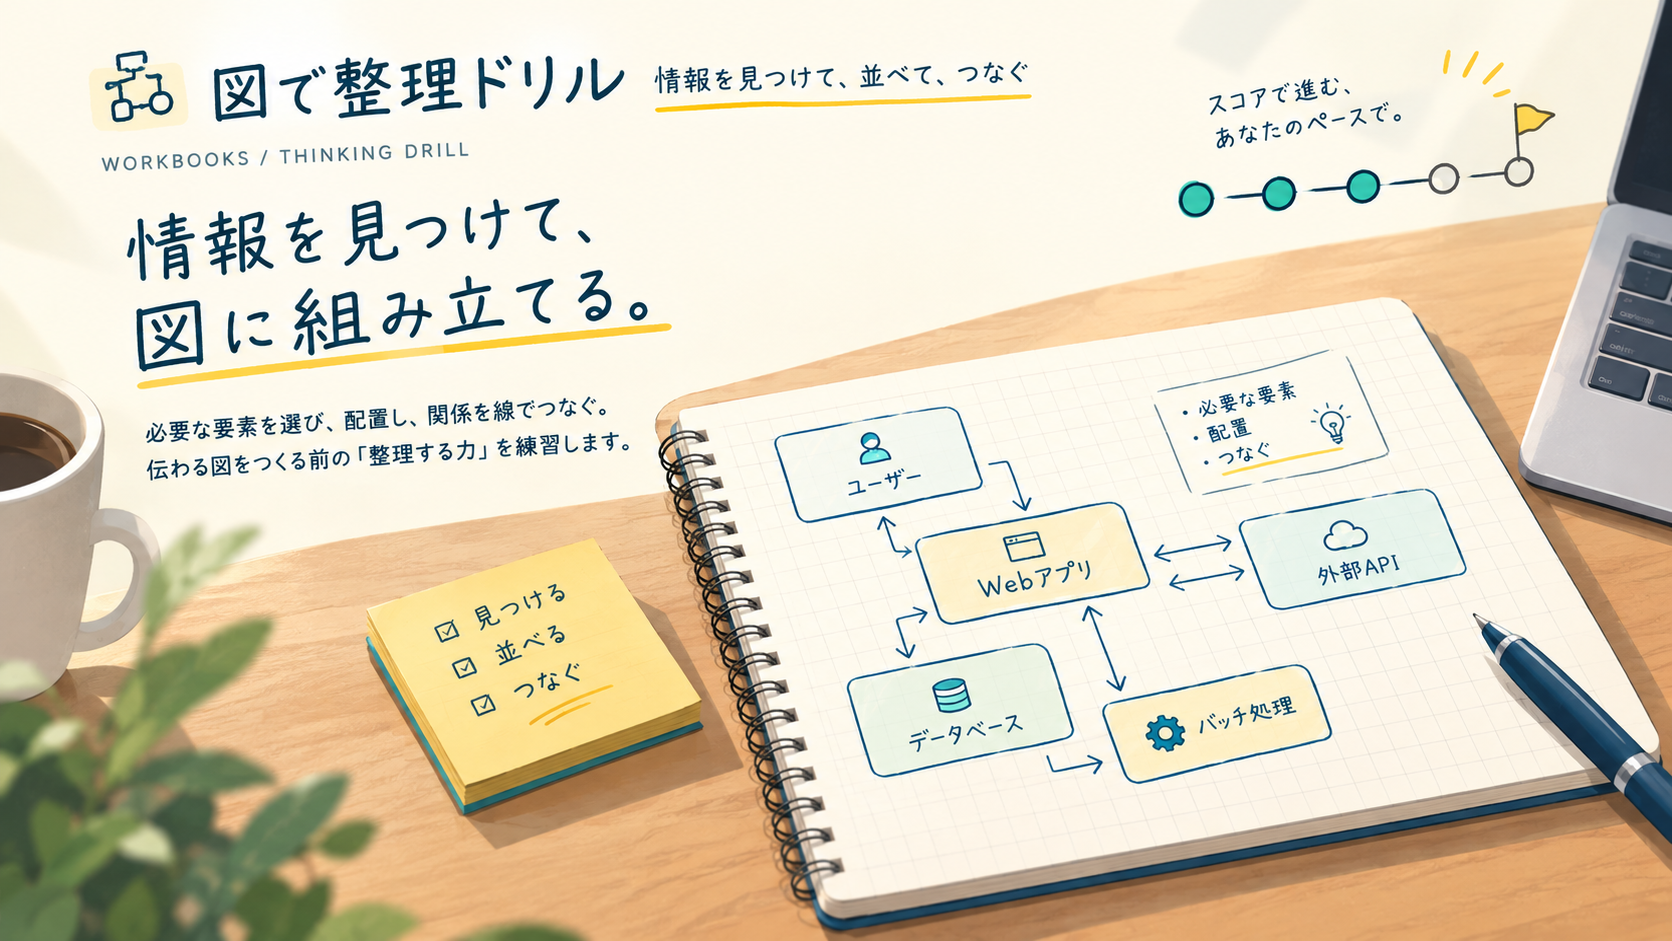
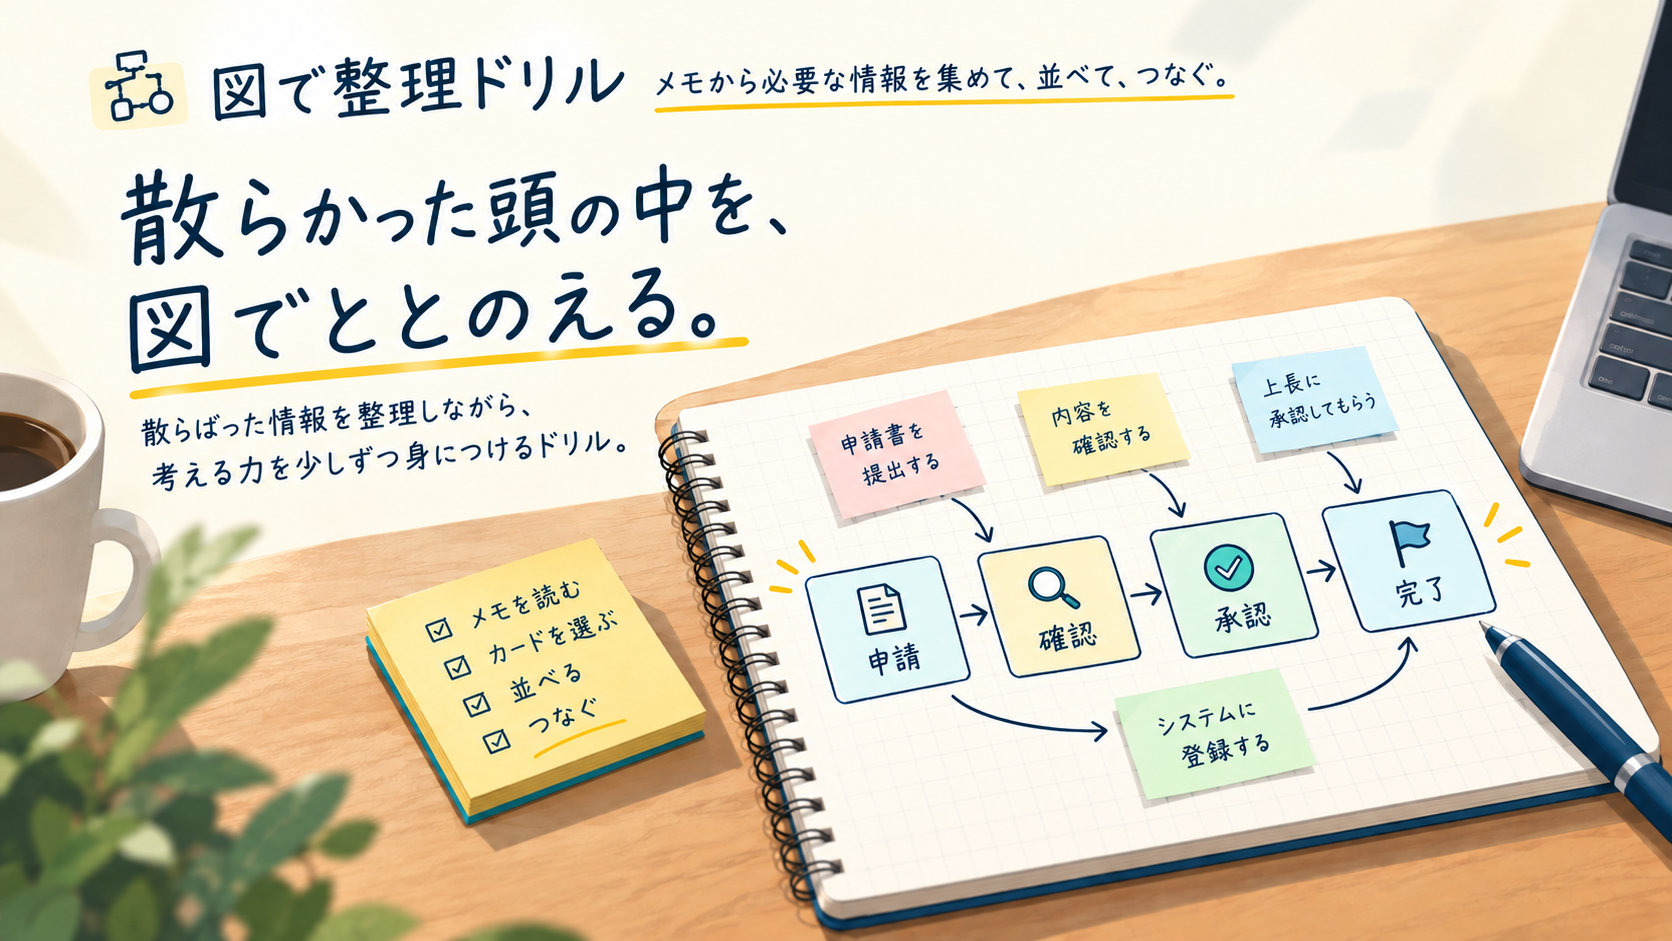
feat: organization-drill

diff --git a/24_organize-drill/src/app.js b/24_organize-drill/src/app.js
@@ -798,7 +798,7 @@ function labelForEdge(edgeKey) { const [from, to] = edgeKey.split('->'); return 
 function scorePlacement(nodes, edited, hintPenalty) {
   const limit = Math.max(0, nodes.length - 1);
   const maxPoints = nodes.length > 1 ? 1 + limit * 2 : 0;
-  if (!edited) return { points: 0, maxPoints, overlaps: 0, alignmentPoints: 0, spacingPoints: 0, aligned: false, hasEqualSpacing: false, untouched: true, hintPenalty, details: ['操作なし', `追加資料の開示 -${hintPenalty}点`] };
+  if (!edited) return { points: 0, maxPoints, overlaps: 0, alignmentPoints: 0, spacingPoints: 0, aligned: false, hasEqualSpacing: false, untouched: true, hintPenalty, details: ['操作なし', `追加メモ -${hintPenalty}点`] };
   const overlapsPair = (a, b) => a.left < b.right - 6 && a.right > b.left + 6 && a.top < b.bottom - 6 && a.bottom > b.top + 6;
   let overlaps = 0;
   for (let i = 0; i < nodes.length; i++) for (let j = i + 1; j < nodes.length; j++) if (overlapsPair(nodes[i], nodes[j])) overlaps++;
@@ -849,7 +849,7 @@ function scorePlacement(nodes, edited, hintPenalty) {
   const alignmentPoints = alignment.points, spacingPoints = spacing.points;
   const points = Math.max(0, (nodes.length > 1 && !overlaps ? 1 : 0) + alignmentPoints + spacingPoints - hintPenalty);
   return { points, maxPoints, overlaps, alignmentPoints, spacingPoints, aligned: alignmentPoints > 0, hasEqualSpacing: spacingPoints > 0, hintPenalty,
-    details: [overlaps ? `カードの重なり ${overlaps}組` : nodes.length > 1 ? '重なりなし' : '配置カードが少なく重なりを判定できない', `中心整列 ${alignmentPoints}点`, `等間隔 ${spacingPoints}点`, `追加資料の開示 -${hintPenalty}点`] };
+    details: [overlaps ? `カードの重なり ${overlaps}組` : nodes.length > 1 ? '重なりなし' : '配置カードが少なく重なりを判定できない', `中心整列 ${alignmentPoints}点`, `等間隔 ${spacingPoints}点`, `追加メモ -${hintPenalty}点`] };
 }
 
 function assessComposition() {
@@ -878,9 +878,15 @@ function renderFeedback(comparison, composition) {
     ['重なり', 'カード同士が重なっていない', '芸術点 1点'],
     ['中心整列', '同じ行・列で隣り合うカードの中心がそろっている', '1組1点、最大カード数−1点'],
     ['等間隔', '同じ行・列で隣り合う間隔がそろっている', '1間隔1点、最大カード数−1点'],
-    ['追加資料の開示', '追加資料を初めて開くごとに1点減点', '開示1枚につき -1点'],
+    ['追加メモ', '追加資料を初めて開くごとに1点減点', '開示1枚につき -1点'],
   ];
-  helpRows.forEach(([name, description, pointsLabel]) => { const tr = document.createElement('tr'); [name, description, pointsLabel].forEach((value, i) => { const cell = document.createElement(i === 0 ? 'th' : 'td'); cell.textContent = value; if (i === 0) cell.scope = 'row'; tr.append(cell); }); helpTable.append(tr); });
+  const helpHead = document.createElement('thead'), helpBody = document.createElement('tbody');
+  const helpNames = document.createElement('tr'), helpDescriptions = document.createElement('tr'), helpPoints = document.createElement('tr');
+  helpRows.forEach(([name, description, pointsLabel]) => {
+    const th = document.createElement('th'); th.scope = 'col'; th.textContent = name; helpNames.append(th);
+    helpDescriptions.append(h('td', '', description)); helpPoints.append(h('td', '', pointsLabel));
+  });
+  helpHead.append(helpNames); helpBody.append(helpDescriptions, helpPoints); helpTable.append(helpHead, helpBody);
   helpPanel.append(helpTable);
   helpButton.addEventListener('click', () => { helpPanel.hidden = !helpPanel.hidden; helpButton.setAttribute('aria-expanded', String(!helpPanel.hidden)); });
   heading.append(headingText, helpButton);
@@ -891,13 +897,13 @@ function renderFeedback(comparison, composition) {
     ['重なり', composition.untouched ? '操作なし' : composition.overlaps ? `${composition.overlaps}か所` : 'なし', !composition.untouched && !composition.overlaps, 'カード同士が重なっていなければ1点'],
     ['中心整列', composition.untouched ? '操作なし' : `${composition.alignmentPoints}点`, !composition.untouched && composition.aligned, '整列した隣接カード1組につき1点、最大カード数−1点'],
     ['等間隔', composition.untouched ? '操作なし' : `${composition.spacingPoints}点`, !composition.untouched && composition.hasEqualSpacing, 'そろった間隔1個につき1点、最大カード数−1点'],
-    ['追加資料の開示', composition.hintPenalty ? `-${composition.hintPenalty}点` : '減点なし', composition.hintPenalty === 0, '追加資料を初めて開くごとに1点減点'],
+    ['追加メモ', composition.hintPenalty ? `-${composition.hintPenalty}点` : '減点なし', composition.hintPenalty === 0, '追加資料を初めて開くごとに1点減点'],
     ['図の整いポイント', `${composition.points} / ${composition.maxPoints}点`, null, composition.untouched ? 'カードやつなぎを操作していないため0点' : '重なりなし1点＋中心整列の組数＋等間隔の個数。追加メモの減点後、下限0点']
   ];
-  const tbody = document.createElement('tbody');
+  const thead = document.createElement('thead'), headerRow = document.createElement('tr');
+  const tbody = document.createElement('tbody'), valueRow = document.createElement('tr');
   rows.forEach(([label, value, good, description], index) => {
-    const row = document.createElement('tr');
-    const th = document.createElement('th'); th.scope = 'row'; th.textContent = label; th.title = description;
+    const th = document.createElement('th'); th.scope = 'col'; th.textContent = label; th.title = description;
     const td = document.createElement('td');
     const status = document.createElement('span'); status.className = 'scoring-status';
     if (good === null) { status.classList.add('is-score'); status.textContent = value; }
@@ -905,10 +911,10 @@ function renderFeedback(comparison, composition) {
     else if (index < 3) { status.classList.add('is-bad'); status.textContent = `× ${value}`; }
     else { status.classList.add('is-neutral'); status.textContent = `− ${value}`; }
     td.append(status);
-    if (index === rows.length - 1) { row.classList.add('scoring-total-row'); th.classList.add('scoring-total'); td.classList.add('scoring-total'); }
-    row.append(th, td); tbody.append(row);
+    if (index === rows.length - 1) { th.classList.add('scoring-total'); td.classList.add('scoring-total'); }
+    headerRow.append(th); valueRow.append(td);
   });
-  table.append(tbody);
+  thead.append(headerRow); tbody.append(valueRow); table.append(thead, tbody);
   feedback.append(heading, helpPanel, table);
   const hintText = $('#hintText'); hintText.replaceChildren();
   const intro = document.createElement('p'); intro.className = 'hint-review-intro'; intro.textContent = current.explanation;
@@ -964,8 +970,20 @@ function renderFeedback(comparison, composition) {
 }
 
 // 正解例を詰めて配置する。かたまり内は上から下へ、かたまり同士は左から右へ。
-// 入る余地がないときは、問題データの layout をそのまま使う。
+// 個別指定の配置は優先し、自動配置が収まらない場合も元の配置を保つ。
 function applyCompactSolutionLayout(nodeMap, canvasW, canvasH, problem = current) {
+  if (problem.solutionLayout === 'manual') {
+    const nodes = [...nodeMap.values()];
+    const width = Math.max(canvasW, 5 * (Math.max(...nodes.map(node => node.offsetWidth)) + GAP_H));
+    const height = Math.max(canvasH, 620);
+    const container = nodes[0]?.parentElement;
+    if (container) { container.style.width = `${width}px`; container.style.height = `${height}px`; }
+    nodeMap.forEach((node, id) => {
+      const point = problem.layout[id];
+      node.style.left = `${point.x * width}px`; node.style.top = `${point.y * height}px`;
+    });
+    return;
+  }
   const ids = [...nodeMap.keys()], index = new Map(ids.map((id, i) => [id, i]));
   const edges = problem.connections.filter(([a, b]) => nodeMap.has(a) && nodeMap.has(b));
   const groupOf = new Map();

diff --git a/docs/organize-drill/app.js b/docs/organize-drill/app.js
@@ -798,7 +798,7 @@ function labelForEdge(edgeKey) { const [from, to] = edgeKey.split('->'); return 
 function scorePlacement(nodes, edited, hintPenalty) {
   const limit = Math.max(0, nodes.length - 1);
   const maxPoints = nodes.length > 1 ? 1 + limit * 2 : 0;
-  if (!edited) return { points: 0, maxPoints, overlaps: 0, alignmentPoints: 0, spacingPoints: 0, aligned: false, hasEqualSpacing: false, untouched: true, hintPenalty, details: ['操作なし', `追加資料の開示 -${hintPenalty}点`] };
+  if (!edited) return { points: 0, maxPoints, overlaps: 0, alignmentPoints: 0, spacingPoints: 0, aligned: false, hasEqualSpacing: false, untouched: true, hintPenalty, details: ['操作なし', `追加メモ -${hintPenalty}点`] };
   const overlapsPair = (a, b) => a.left < b.right - 6 && a.right > b.left + 6 && a.top < b.bottom - 6 && a.bottom > b.top + 6;
   let overlaps = 0;
   for (let i = 0; i < nodes.length; i++) for (let j = i + 1; j < nodes.length; j++) if (overlapsPair(nodes[i], nodes[j])) overlaps++;
@@ -849,7 +849,7 @@ function scorePlacement(nodes, edited, hintPenalty) {
   const alignmentPoints = alignment.points, spacingPoints = spacing.points;
   const points = Math.max(0, (nodes.length > 1 && !overlaps ? 1 : 0) + alignmentPoints + spacingPoints - hintPenalty);
   return { points, maxPoints, overlaps, alignmentPoints, spacingPoints, aligned: alignmentPoints > 0, hasEqualSpacing: spacingPoints > 0, hintPenalty,
-    details: [overlaps ? `カードの重なり ${overlaps}組` : nodes.length > 1 ? '重なりなし' : '配置カードが少なく重なりを判定できない', `中心整列 ${alignmentPoints}点`, `等間隔 ${spacingPoints}点`, `追加資料の開示 -${hintPenalty}点`] };
+    details: [overlaps ? `カードの重なり ${overlaps}組` : nodes.length > 1 ? '重なりなし' : '配置カードが少なく重なりを判定できない', `中心整列 ${alignmentPoints}点`, `等間隔 ${spacingPoints}点`, `追加メモ -${hintPenalty}点`] };
 }
 
 function assessComposition() {
@@ -878,9 +878,15 @@ function renderFeedback(comparison, composition) {
     ['重なり', 'カード同士が重なっていない', '芸術点 1点'],
     ['中心整列', '同じ行・列で隣り合うカードの中心がそろっている', '1組1点、最大カード数−1点'],
     ['等間隔', '同じ行・列で隣り合う間隔がそろっている', '1間隔1点、最大カード数−1点'],
-    ['追加資料の開示', '追加資料を初めて開くごとに1点減点', '開示1枚につき -1点'],
+    ['追加メモ', '追加資料を初めて開くごとに1点減点', '開示1枚につき -1点'],
   ];
-  helpRows.forEach(([name, description, pointsLabel]) => { const tr = document.createElement('tr'); [name, description, pointsLabel].forEach((value, i) => { const cell = document.createElement(i === 0 ? 'th' : 'td'); cell.textContent = value; if (i === 0) cell.scope = 'row'; tr.append(cell); }); helpTable.append(tr); });
+  const helpHead = document.createElement('thead'), helpBody = document.createElement('tbody');
+  const helpNames = document.createElement('tr'), helpDescriptions = document.createElement('tr'), helpPoints = document.createElement('tr');
+  helpRows.forEach(([name, description, pointsLabel]) => {
+    const th = document.createElement('th'); th.scope = 'col'; th.textContent = name; helpNames.append(th);
+    helpDescriptions.append(h('td', '', description)); helpPoints.append(h('td', '', pointsLabel));
+  });
+  helpHead.append(helpNames); helpBody.append(helpDescriptions, helpPoints); helpTable.append(helpHead, helpBody);
   helpPanel.append(helpTable);
   helpButton.addEventListener('click', () => { helpPanel.hidden = !helpPanel.hidden; helpButton.setAttribute('aria-expanded', String(!helpPanel.hidden)); });
   heading.append(headingText, helpButton);
@@ -891,13 +897,13 @@ function renderFeedback(comparison, composition) {
     ['重なり', composition.untouched ? '操作なし' : composition.overlaps ? `${composition.overlaps}か所` : 'なし', !composition.untouched && !composition.overlaps, 'カード同士が重なっていなければ1点'],
     ['中心整列', composition.untouched ? '操作なし' : `${composition.alignmentPoints}点`, !composition.untouched && composition.aligned, '整列した隣接カード1組につき1点、最大カード数−1点'],
     ['等間隔', composition.untouched ? '操作なし' : `${composition.spacingPoints}点`, !composition.untouched && composition.hasEqualSpacing, 'そろった間隔1個につき1点、最大カード数−1点'],
-    ['追加資料の開示', composition.hintPenalty ? `-${composition.hintPenalty}点` : '減点なし', composition.hintPenalty === 0, '追加資料を初めて開くごとに1点減点'],
+    ['追加メモ', composition.hintPenalty ? `-${composition.hintPenalty}点` : '減点なし', composition.hintPenalty === 0, '追加資料を初めて開くごとに1点減点'],
     ['図の整いポイント', `${composition.points} / ${composition.maxPoints}点`, null, composition.untouched ? 'カードやつなぎを操作していないため0点' : '重なりなし1点＋中心整列の組数＋等間隔の個数。追加メモの減点後、下限0点']
   ];
-  const tbody = document.createElement('tbody');
+  const thead = document.createElement('thead'), headerRow = document.createElement('tr');
+  const tbody = document.createElement('tbody'), valueRow = document.createElement('tr');
   rows.forEach(([label, value, good, description], index) => {
-    const row = document.createElement('tr');
-    const th = document.createElement('th'); th.scope = 'row'; th.textContent = label; th.title = description;
+    const th = document.createElement('th'); th.scope = 'col'; th.textContent = label; th.title = description;
     const td = document.createElement('td');
     const status = document.createElement('span'); status.className = 'scoring-status';
     if (good === null) { status.classList.add('is-score'); status.textContent = value; }
@@ -905,10 +911,10 @@ function renderFeedback(comparison, composition) {
     else if (index < 3) { status.classList.add('is-bad'); status.textContent = `× ${value}`; }
     else { status.classList.add('is-neutral'); status.textContent = `− ${value}`; }
     td.append(status);
-    if (index === rows.length - 1) { row.classList.add('scoring-total-row'); th.classList.add('scoring-total'); td.classList.add('scoring-total'); }
-    row.append(th, td); tbody.append(row);
+    if (index === rows.length - 1) { th.classList.add('scoring-total'); td.classList.add('scoring-total'); }
+    headerRow.append(th); valueRow.append(td);
   });
-  table.append(tbody);
+  thead.append(headerRow); tbody.append(valueRow); table.append(thead, tbody);
   feedback.append(heading, helpPanel, table);
   const hintText = $('#hintText'); hintText.replaceChildren();
   const intro = document.createElement('p'); intro.className = 'hint-review-intro'; intro.textContent = current.explanation;
@@ -964,8 +970,20 @@ function renderFeedback(comparison, composition) {
 }
 
 // 正解例を詰めて配置する。かたまり内は上から下へ、かたまり同士は左から右へ。
-// 入る余地がないときは、問題データの layout をそのまま使う。
+// 個別指定の配置は優先し、自動配置が収まらない場合も元の配置を保つ。
 function applyCompactSolutionLayout(nodeMap, canvasW, canvasH, problem = current) {
+  if (problem.solutionLayout === 'manual') {
+    const nodes = [...nodeMap.values()];
+    const width = Math.max(canvasW, 5 * (Math.max(...nodes.map(node => node.offsetWidth)) + GAP_H));
+    const height = Math.max(canvasH, 620);
+    const container = nodes[0]?.parentElement;
+    if (container) { container.style.width = `${width}px`; container.style.height = `${height}px`; }
+    nodeMap.forEach((node, id) => {
+      const point = problem.layout[id];
+      node.style.left = `${point.x * width}px`; node.style.top = `${point.y * height}px`;
+    });
+    return;
+  }
   const ids = [...nodeMap.keys()], index = new Map(ids.map((id, i) => [id, i]));
   const edges = problem.connections.filter(([a, b]) => nodeMap.has(a) && nodeMap.has(b));
   const groupOf = new Map();

diff --git a/24_organize-drill/src/style.css b/24_organize-drill/src/style.css
@@ -370,3 +370,10 @@
 .prompt-reveal-note:disabled{opacity:.65;cursor:default}
 @media(max-width:700px){.prompt-document-note,.prompt-reveal-note{width:48%;padding:9px}.prompt-document-note{min-height:120px}.prompt-document-body{font-size:10px}}
 .drill-notice{margin:0 0 14px;padding:10px 12px;border:1px solid #e3d0c9;border-radius:9px;background:#fbefeb;color:var(--red);font-size:13px;font-weight:650}
+/* 解答確認の採点欄は、比較する2つの図の下に全幅で表示する。 */
+.workbench.is-reviewing #feedback{grid-column:1/-1;grid-row:2;height:auto;overflow-x:auto}
+.workbench.is-reviewing #feedback .scoring-table,.workbench.is-reviewing #feedback .scoring-help-table{width:100%;min-width:720px;table-layout:fixed;border-collapse:collapse}
+.workbench.is-reviewing #feedback .scoring-table th,.workbench.is-reviewing #feedback .scoring-table td,.workbench.is-reviewing #feedback .scoring-help-table th,.workbench.is-reviewing #feedback .scoring-help-table td{width:auto;text-align:center;vertical-align:middle;border-right:1px solid #e5e2d8;padding:10px 8px;white-space:normal}
+.workbench.is-reviewing #feedback .scoring-table .scoring-total{background:#f2f6fb;color:#3976b8;font-weight:850}
+.workbench.is-reviewing #feedback .scoring-table th:last-child,.workbench.is-reviewing #feedback .scoring-table td:last-child,.workbench.is-reviewing #feedback .scoring-help-table th:last-child,.workbench.is-reviewing #feedback .scoring-help-table td:last-child{border-right:0}
+@media(max-width:700px){.workbench.is-reviewing #feedback{grid-row:auto}}

diff --git a/docs/organize-drill/style.css b/docs/organize-drill/style.css
@@ -370,3 +370,10 @@
 .prompt-reveal-note:disabled{opacity:.65;cursor:default}
 @media(max-width:700px){.prompt-document-note,.prompt-reveal-note{width:48%;padding:9px}.prompt-document-note{min-height:120px}.prompt-document-body{font-size:10px}}
 .drill-notice{margin:0 0 14px;padding:10px 12px;border:1px solid #e3d0c9;border-radius:9px;background:#fbefeb;color:var(--red);font-size:13px;font-weight:650}
+/* 解答確認の採点欄は、比較する2つの図の下に全幅で表示する。 */
+.workbench.is-reviewing #feedback{grid-column:1/-1;grid-row:2;height:auto;overflow-x:auto}
+.workbench.is-reviewing #feedback .scoring-table,.workbench.is-reviewing #feedback .scoring-help-table{width:100%;min-width:720px;table-layout:fixed;border-collapse:collapse}
+.workbench.is-reviewing #feedback .scoring-table th,.workbench.is-reviewing #feedback .scoring-table td,.workbench.is-reviewing #feedback .scoring-help-table th,.workbench.is-reviewing #feedback .scoring-help-table td{width:auto;text-align:center;vertical-align:middle;border-right:1px solid #e5e2d8;padding:10px 8px;white-space:normal}
+.workbench.is-reviewing #feedback .scoring-table .scoring-total{background:#f2f6fb;color:#3976b8;font-weight:850}
+.workbench.is-reviewing #feedback .scoring-table th:last-child,.workbench.is-reviewing #feedback .scoring-table td:last-child,.workbench.is-reviewing #feedback .scoring-help-table th:last-child,.workbench.is-reviewing #feedback .scoring-help-table td:last-child{border-right:0}
+@media(max-width:700px){.workbench.is-reviewing #feedback{grid-row:auto}}

diff --git a/24_organize-drill/src/index.html b/24_organize-drill/src/index.html
@@ -8,7 +8,7 @@
   <meta property="og:type" content="website">
   <meta property="og:title" content="図で整理ドリル｜散らかった頭の中を、図でととのえる。">
   <meta property="og:description" content="メモから必要な情報を集めて、並べて、つなぐ。散らばった情報を整理しながら、考える力を少しずつ身につけるドリル。">
-  <meta property="og:image" content="ogp.png">
+  <meta property="og:image" content="https://kaku3.github.io/workbooks/organize-drill/assets/ogp.png">
   <meta name="twitter:card" content="summary_large_image">
   <title>図で整理ドリル｜散らかった頭の中を、図でととのえる。</title>
   <meta name="twitter:image" content="https://kaku3.github.io/workbooks/organize-drill/assets/ogp.png">

diff --git a/docs/organize-drill/index.html b/docs/organize-drill/index.html
@@ -8,7 +8,7 @@
   <meta property="og:type" content="website">
   <meta property="og:title" content="図で整理ドリル｜散らかった頭の中を、図でととのえる。">
   <meta property="og:description" content="メモから必要な情報を集めて、並べて、つなぐ。散らばった情報を整理しながら、考える力を少しずつ身につけるドリル。">
-  <meta property="og:image" content="ogp.png">
+  <meta property="og:image" content="https://kaku3.github.io/workbooks/organize-drill/assets/ogp.png">
   <meta name="twitter:card" content="summary_large_image">
   <title>図で整理ドリル｜散らかった頭の中を、図でととのえる。</title>
   <meta name="twitter:image" content="https://kaku3.github.io/workbooks/organize-drill/assets/ogp.png">

diff --git a/24_organize-drill/docs/drill/ci-deploy.md b/24_organize-drill/docs/drill/ci-deploy.md
@@ -73,15 +73,15 @@
 
 | 付箋ID | x | y |
 |---|---:|---:|
-| `ci-deploy-n1` | 0.12 | 0.5 |
-| `ci-deploy-n2` | 0.35 | 0.5 |
-| `ci-deploy-n3` | 0.58 | 0.5 |
-| `ci-deploy-n4` | 0.82 | 0.25 |
-| `ci-deploy-n5` | 0.58 | 0.82 |
-| `ci-deploy-n6` | 0.35 | 0.82 |
-| `ci-deploy-n7` | 0.9 | 0.25 |
+| `ci-deploy-n1` | 0.1 | 0.45 |
+| `ci-deploy-n2` | 0.3 | 0.45 |
+| `ci-deploy-n3` | 0.5 | 0.45 |
+| `ci-deploy-n4` | 0.7 | 0.2 |
+| `ci-deploy-n5` | 0.5 | 0.8 |
+| `ci-deploy-n6` | 0.3 | 0.8 |
+| `ci-deploy-n7` | 0.9 | 0.2 |
 | `ci-deploy-n8` | 0.9 | 0.5 |
-| `ci-deploy-n9` | 0.9 | 0.82 |
+| `ci-deploy-n9` | 0.7 | 0.8 |
 
 ## 解説
 
